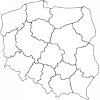
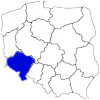
rzeki update

diff --git a/rzeki/styl.css b/rzeki/styl.css
@@ -1,0 +1,64 @@
+* {
+    font-family: 'Georgia';
+}
+
+#header1,
+#header2 {
+    float: left;
+    background-color: Navy;
+    color: white;
+    text-align: center;
+    height: 100px;
+    width: 50%;
+}
+
+nav {
+    clear: both;
+    background-color: Navy;
+    padding: 20px;
+}
+
+label {
+    color: Silver;
+    margin: 20px;
+}
+
+label:hover {
+    color: white;
+    text-decoration: underline;
+}
+
+#lewy,
+#prawy {
+    background-color: Azure;
+    height: 550px;
+    float: left;
+}
+
+#lewy {
+    width: 70%;
+}
+
+#prawy {
+    width: 30%;
+}
+
+footer {
+    clear: both;
+    background-color: Navy;
+    color: white;
+}
+
+table {
+    border: 1px solid Navy;
+    margin: auto;
+    width: 70%;
+}
+
+tr:hover {
+    background-color: SkyBlue;
+}
+
+#prawy > img {
+    width: 90%;
+}

diff --git a/rzeki/poziomRzek.php b/rzeki/poziomRzek.php
@@ -1,0 +1,109 @@
+<?php
+    $conn = mysqli_connect("localhost","root","","rzeki");
+?>
+
+<!DOCTYPE html>
+<html lang="pl">
+    <head>
+        <meta charset="UTF-8">
+        <meta name="viewport" content="width=device-width, initial-scale=1.0">
+        <title>Poziomy rzek</title>
+        <link rel="stylesheet" href="styl.css">
+    </head>
+    <body>
+        <div id="header1">
+            <img src="obraz1.png" alt="Mapa Polski">
+        </div>
+
+        <div id="header2">
+            <h1>Rzeki w województwie dolnośląskim</h1>
+        </div>
+
+        <nav>
+            <form action="poziomRzek.php" method="post">
+                <input type="radio" name="stan" id="wszystkie" value="wszystkie">
+                <label for="wszystkie">Wszystkie</label>
+
+                <input type="radio" name="stan" id="ostrzegawczy" value="ostrzegawczy">
+                <label for="ostrzegawczy">Ponad stan ostrzegawczy</label>
+
+                <input type="radio" name="stan" id="alarmowy" value="alarmowy">
+                <label for="alarmowy">Ponad stan alarmowy</label>
+
+                <button type="submit" name="pokaz">Pokaż</button>
+            </form>
+        </nav>
+
+        <div id="lewy">
+            <h3>Stany na dzień 2022-05-05</h3>
+            <table>
+                <tr>
+                    <th>Wodomierz</th>
+                    <th>Rzeka</th>
+                    <th>ostrzegawczy</th>
+                    <th>Alarmowy</th>
+                    <th>Aktualny</th>
+                </tr>
+
+                <?php
+                    // Skrypt #1
+
+                    if(isset($_POST['stan'])) {
+                        $stan = $_POST['stan'];
+                        if($stan == 'wszystkie') {
+                            $sql = "SELECT nazwa, rzeka, stanOstrzegawczy, stanAlarmowy, stanWody FROM wodowskazy JOIN pomiary ON wodowskazy.id = wodowskazy_id WHERE dataPomiaru='2022-05-05';";
+                        }
+                        else if($stan == 'ostrzegawczy') {
+                            $sql = "SELECT nazwa, rzeka, stanOstrzegawczy, stanAlarmowy, stanWody FROM wodowskazy JOIN pomiary ON wodowskazy.id = wodowskazy_id WHERE dataPomiaru='2022-05-05' AND stanWody > stanOstrzegawczy;";
+                        }
+                        else if($stan == 'alarmowy') {
+                            $sql = "SELECT nazwa, rzeka, stanOstrzegawczy, stanAlarmowy, stanWody FROM wodowskazy JOIN pomiary ON wodowskazy.id = wodowskazy_id WHERE dataPomiaru='2022-05-05' AND stanWody > stanAlarmowy;";
+                        }
+                        $result = mysqli_query($conn, $sql);
+                        while($row = mysqli_fetch_array($result)) {
+                            echo "<tr>";
+                                echo "<td>$row[0]</td>";
+                                echo "<td>$row[1]</td>";
+                                echo "<td>$row[2]</td>";
+                                echo "<td>$row[3]</td>";
+                                echo "<td>$row[4]</td>";
+                            echo "</tr>";
+                        }
+                    }
+                ?>
+
+            </table>
+        </div>
+
+        <div id="prawy">
+            <h3>informacje</h3>
+            <ul>
+                <li>Brak ostrzeżeń o burzach z gradem</li>
+                <li>Smog w mieście Wrocław</li>
+                <li>Silny wiatr w Karkonoszach</li>
+            </ul>
+            <h3>Średnie stany wód</h3>
+            
+            <?php
+                // Skrypt #2
+                $sql = "SELECT dataPomiaru, AVG(stanWody) FROM pomiary GROUP BY dataPomiaru; ";
+                $result = mysqli_query($conn, $sql);
+                while($row = mysqli_fetch_array($result)) {
+                    echo "<p>$row[0]: $row[1]</p>";
+                }
+            ?>
+
+            <a href="https://komunikaty.pl">Dowiedz się więcej</a>
+
+            <img src="obraz2.jpg" alt="rzeka">
+        </div>
+
+        <footer>
+            <p>Stronę wykonał: 29392163217321</p>
+        </footer>
+    </body>
+</html>
+
+<?php
+    mysqli_close($conn);
+?>
